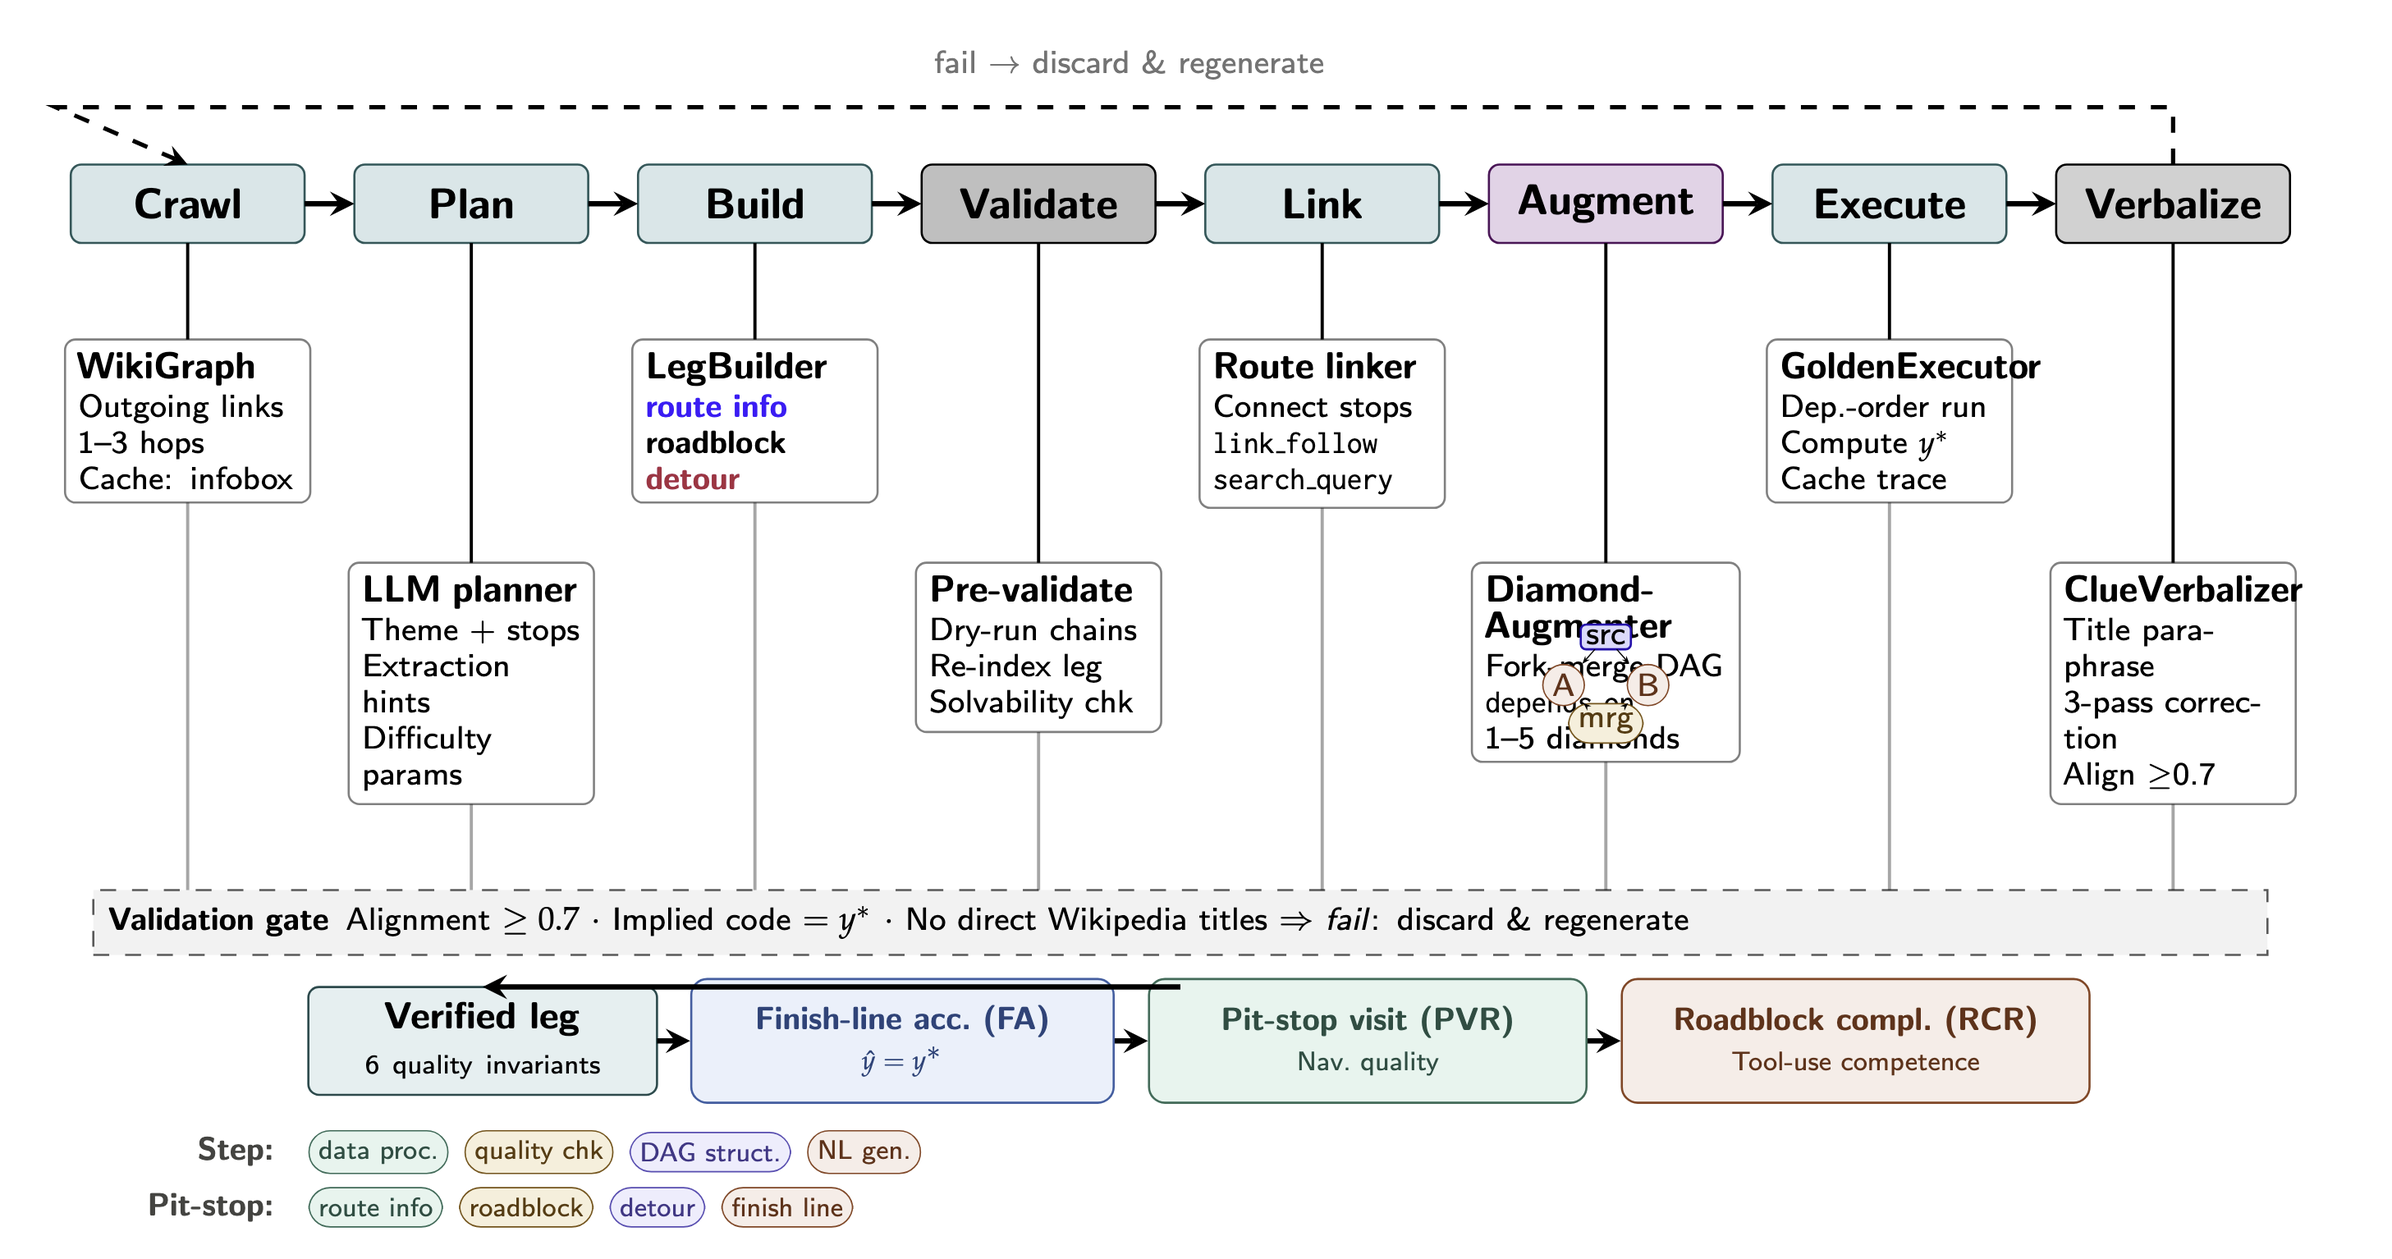
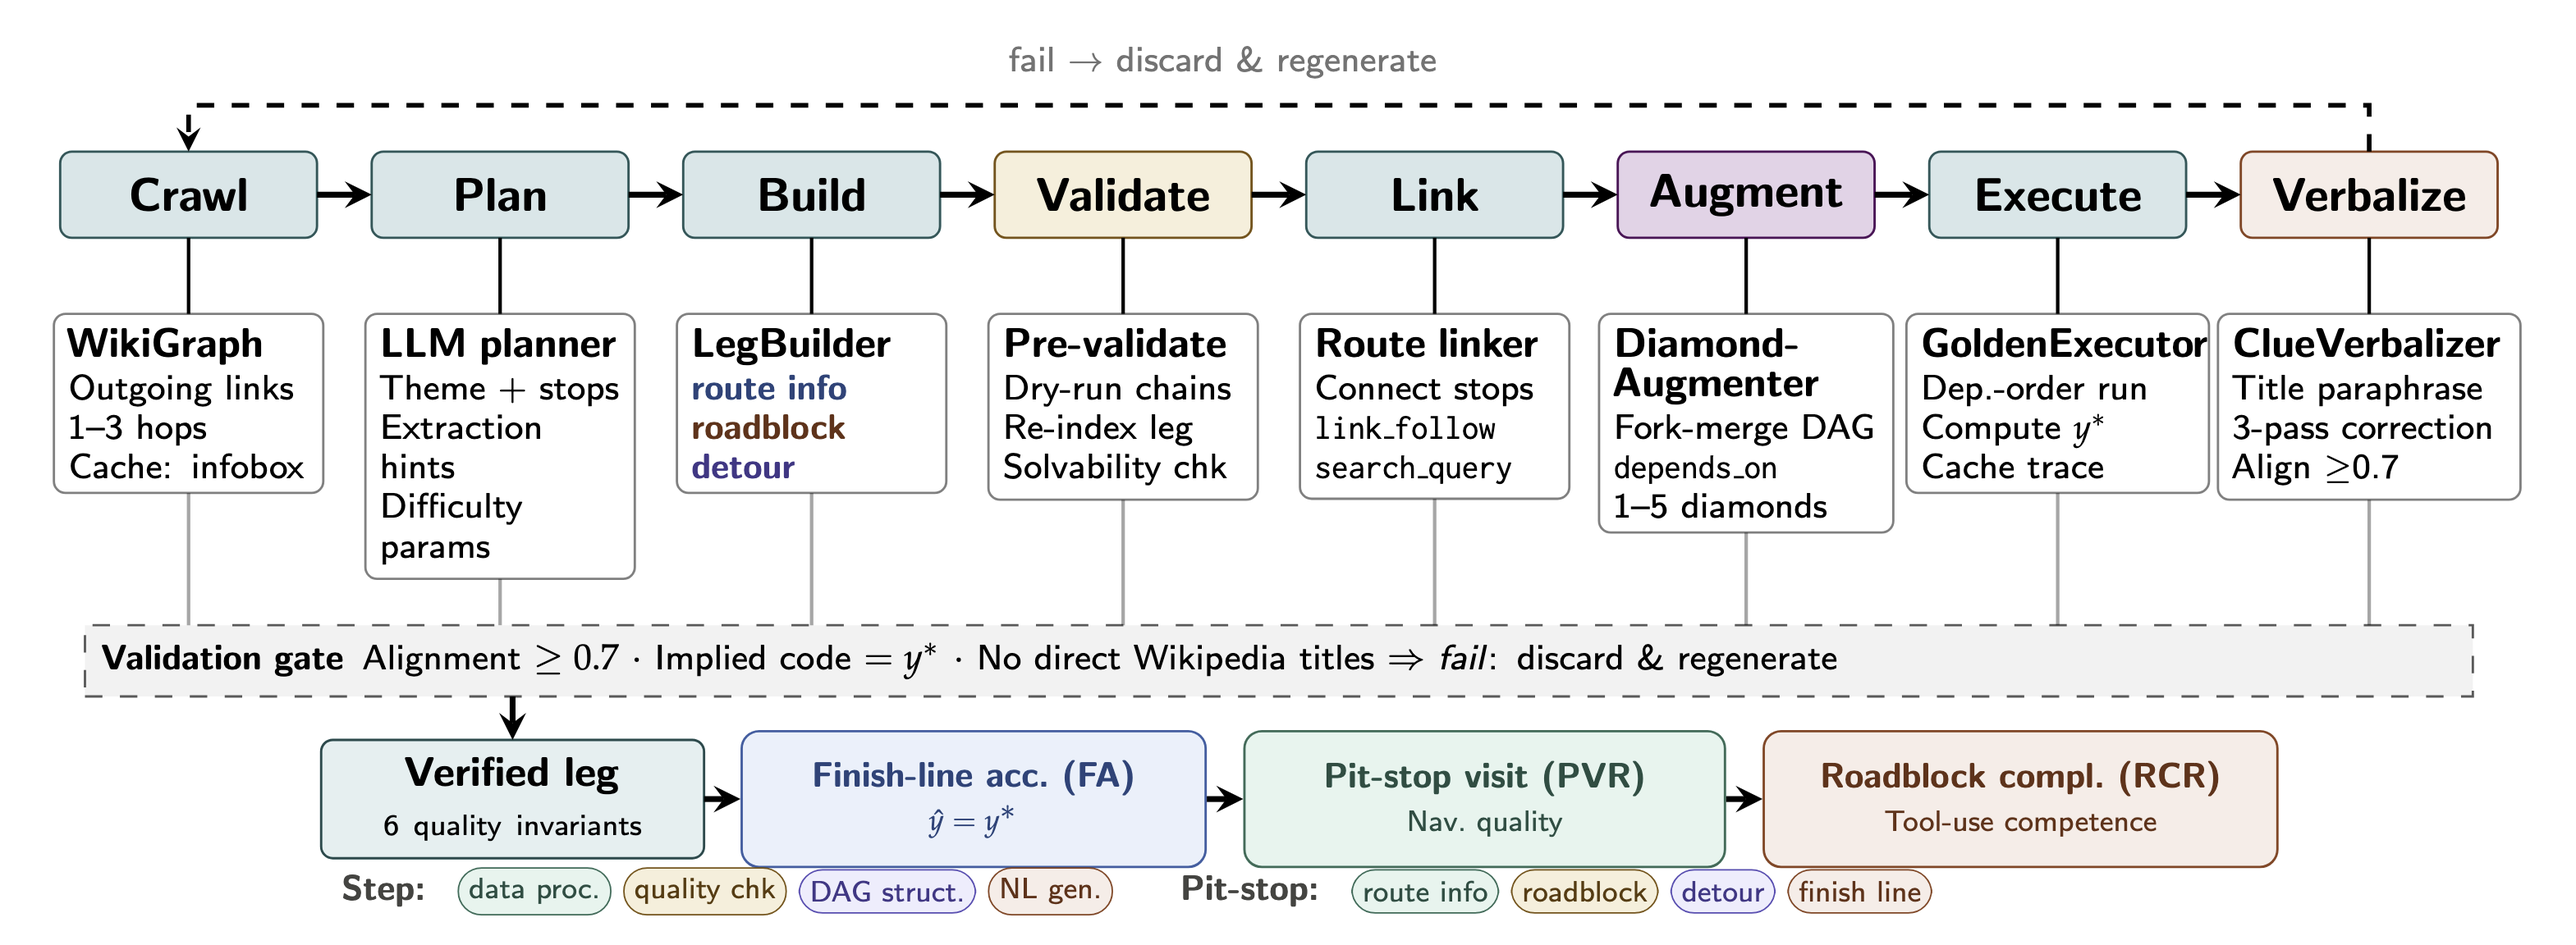
Update project page: arXiv link, Harbor registry, pipeline figure, bibtex
- Paper badge links to arxiv.org/abs/2604.10261
- Harbor badge links to registry.harborframework.com
- Remove HuggingFace dataset button
- Replace pipeline figure with fig4_screen.png
- Update bibtex with full author list

Changed region(s): [[0.0, 0.0312, 0.9681, 1.0], [0.7807, 0.6562, 0.8119, 0.6875]]

diff --git a/docs/index.html b/docs/index.html
@@ -357,9 +357,8 @@
     </p>
     <div class="badges">
       <a href="https://github.com/minnesotanlp/the-amazing-agent-race"><img src="https://img.shields.io/badge/GitHub-Code-0B1A3B?logo=github&logoColor=white&style=for-the-badge" alt="GitHub"></a>
-      <a href="#citation"><img src="https://img.shields.io/badge/Paper-Coming%20Soon-D4581A?style=for-the-badge" alt="Paper"></a>
-      <a href="https://github.com/harbor-framework/harbor"><img src="https://img.shields.io/badge/Eval-Harbor-1565C0?style=for-the-badge" alt="Harbor"></a>
-      <a href="https://huggingface.co/datasets/minnesotanlp/the-amazing-agent-race"><img src="https://img.shields.io/badge/HF-Dataset-E8B830?logo=huggingface&logoColor=white&style=for-the-badge" alt="HuggingFace"></a>
+      <a href="https://arxiv.org/abs/2604.10261"><img src="https://img.shields.io/badge/Paper-arXiv-D4581A?style=for-the-badge" alt="Paper"></a>
+      <a href="https://registry.harborframework.com/datasets/minnesotanlp/aar/latest"><img src="https://img.shields.io/badge/Eval-Harbor-1565C0?style=for-the-badge" alt="Harbor"></a>
       <a href="https://github.com/minnesotanlp/the-amazing-agent-race/blob/main/LICENSE.md"><img src="https://img.shields.io/badge/License-MIT-2C3E50?style=for-the-badge" alt="License"></a>
     </div>
     <div class="hero-stat-row">
@@ -668,11 +667,14 @@
   <div class="container">
     <h2>Citation</h2>
     <div class="citation-block">
-<pre>@inproceedings{aar2026,
-  title={The Amazing Agent Race: Strong Tool Users, Weak Navigators},
-  author={Anonymous},
-  year={2026},
-  note={Under review}
+<pre>@misc{kim2026amazingagentracestrong,
+      title={The Amazing Agent Race: Strong Tool Users, Weak Navigators},
+      author={Zae Myung Kim and Dongseok Lee and Jaehyung Kim and Vipul Raheja and Dongyeop Kang},
+      year={2026},
+      eprint={2604.10261},
+      archivePrefix={arXiv},
+      primaryClass={cs.AI},
+      url={https://arxiv.org/abs/2604.10261},
 }</pre>
     </div>
   </div>
@@ -682,8 +684,8 @@
 <footer>
   <p>
     <a href="https://github.com/minnesotanlp/the-amazing-agent-race">GitHub</a> &middot;
-    <a href="https://github.com/harbor-framework/harbor">Harbor</a> &middot;
-    <a href="https://huggingface.co/datasets/minnesotanlp/the-amazing-agent-race">HuggingFace</a>
+    <a href="https://arxiv.org/abs/2604.10261">Paper</a> &middot;
+    <a href="https://registry.harborframework.com/datasets/minnesotanlp/aar/latest">Harbor</a>
   </p>
   <p style="margin-top:0.5rem">&copy; 2026 Minnesota NLP &middot; MIT License</p>
 </footer>
